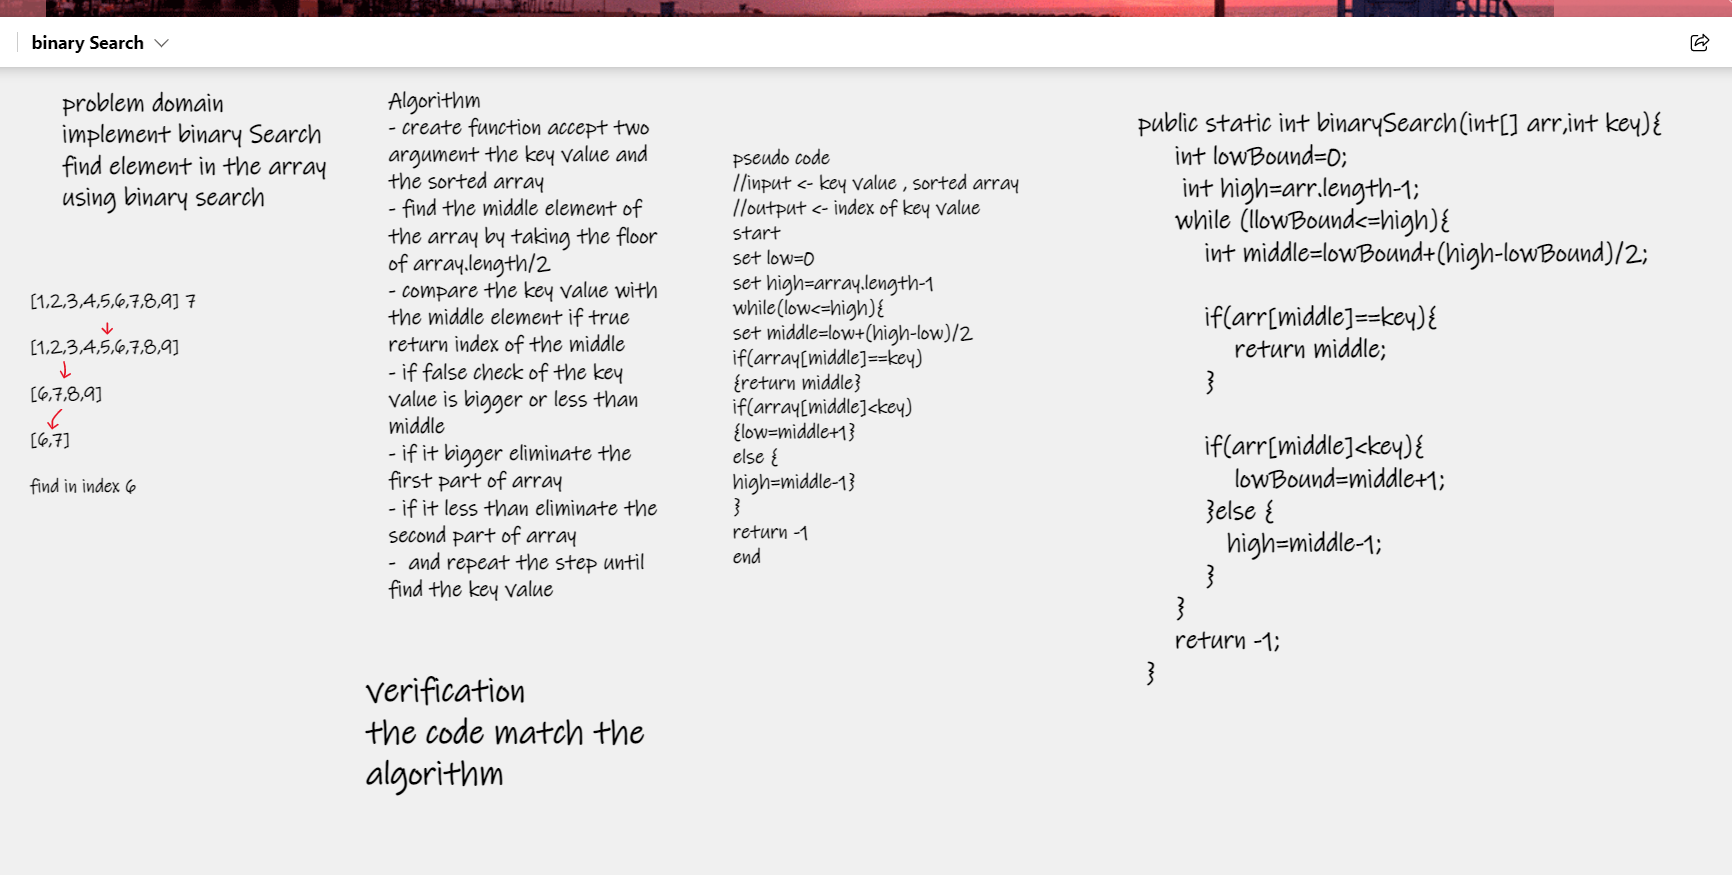
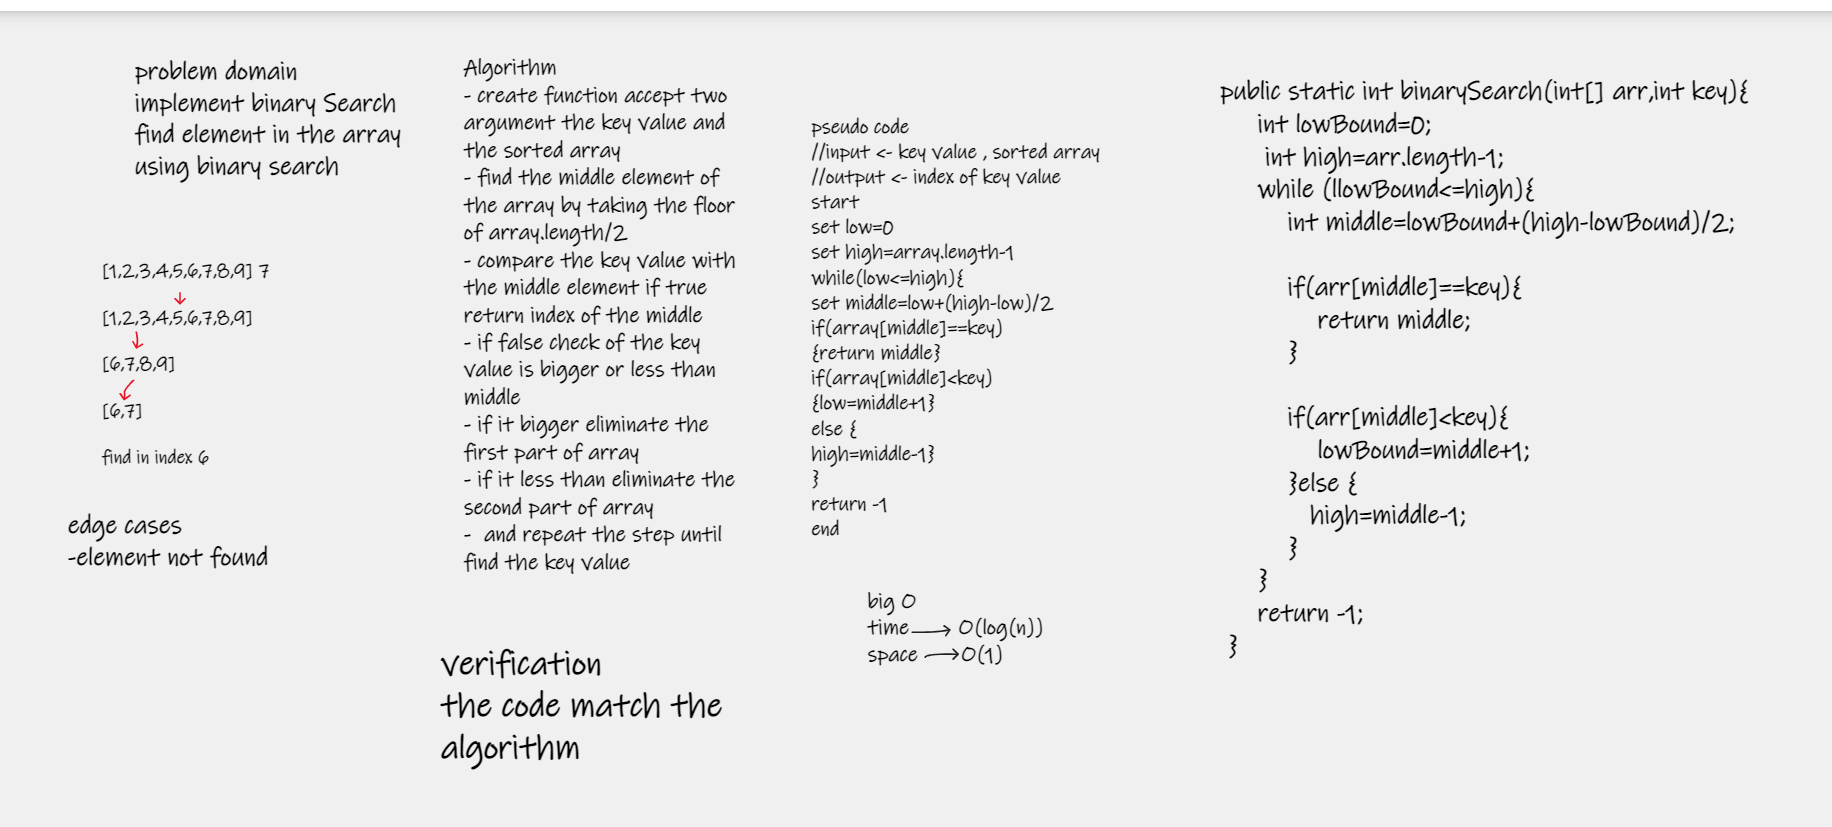
edit

diff --git a/insertShiftArray/insertShiftArray.md b/insertShiftArray/insertShiftArray.md
@@ -1,4 +1,10 @@
 ## insertShiftArray
 
 
-![insertShiftArray](insertShiftArray.png)
+![insertShiftArray](array-insert-shift.png)
+
+## Approach & Efficiency
+
+the algorithm use multi for loop but not nested so it takes O(n)
+
+the Challenge was not easy one , it takes time to solve it   

diff --git a/BinarySearch/BinarySearch.md b/BinarySearch/BinarySearch.md
@@ -3,4 +3,10 @@
 ![BinarySearch](BinarySearch.png)
 
 
+Approach & Efficiency
+ the worst case O(log n) in time and O(1) in space 
+ 
+ it was hard to solve 
+
+
 I get helped from [helpedBy](https://www.geeksforgeeks.org/binary-search/)

diff --git a/array-reverse/array-reverse.md b/array-reverse/array-reverse.md
@@ -1,3 +1,10 @@
 ### array-reverce
 
 ![array-reverse](array-reverse.png)
+
+
+
+## Approach & Efficiency
+the algorithm use for loop which take O(n) for space and time
+
+it was not hard according to array and loop
